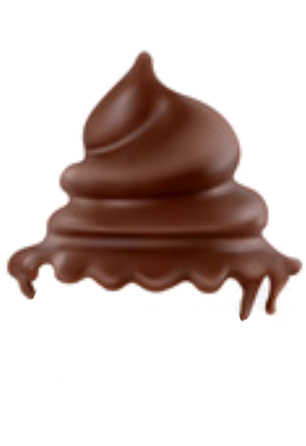
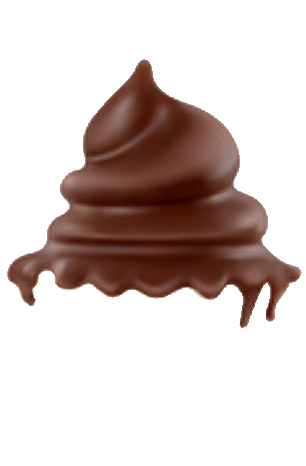
retoques, control background

diff --git a/index.html b/index.html
@@ -15,13 +15,13 @@
     <div class="contenedor_general">
         <div class="cupcake_contenedor">
             <div class="crema_topping"> 
-                <img src="" alt="" class="img-show">
+                <img src="./img/topping_inicio.png" alt="" class="img-show">
             </div>
             <div class="crema_cupcake"> 
-                <img src="" alt="" class="img-show">
+                <img src="./img/crema_inicio.png" alt="" class="img-show">
             </div>
             <div class="base_cupcake">
-                <img src="" alt="" class="img-show">
+                <img src="./img/base_cupcake_inicio.png" alt="" class="img-show">
             </div>
             <div class="reflejo"></div>
         </div>
@@ -44,7 +44,7 @@
                 <img src="./img/crema_nata.png" alt="creme rosa">
                 <img src="./img/cmema_avellanasYginda.png" alt=" crema_azul">
                 <img src="./img/crema_cumple.png" alt="crema con ginda">
-                <img src="./img/chocolate_duro.png" alt="chocolate duro">
+                <img src="./img/crema_picos.png" alt="chocolate duro">
                 <img src="./img/crema_rosa.png" alt="creme rosa">
             </div>
 
@@ -52,14 +52,12 @@
 
            
             <div class="control bases">
-                <img src="./img/base_cupcake.png" alt="base_cupcake">
                 <img src="./img/base_cupcake_rosa.png" alt="base_cupcake">
                 <img src="./img/base_cupcake_amarillo.png" alt="base_cupcake">
                 <img src="./img/base_cupcake_arcoiris.png" alt="base_cupcake">
                 <img src="./img/base_cupcake_bananasplit.png" alt="base_cupcake">
                 <img src="./img/base_cupcake_rojo.png" alt="base_cupcake">
-                <img src="./img/base_cupcake.png" alt="base_cupcake">
-                <img src="./img/base_cupcake.png" alt="base_cupcake">
+                <img src="./img/base_cupcake_violeta.png" alt="base_cupcake">
             </div>
         
         </div>

diff --git a/style.css b/style.css
@@ -16,7 +16,7 @@ body{
 
 .contenedor_general{
     /* background: yellowgreen; */
-    width: 400px;
+    width: 360px;
     position: absolute;
     top: 50%;
     left: 50%;
@@ -59,7 +59,7 @@ body{
 .base_cupcake{
     /* background: burlywood; */
     position: absolute;
-    top: 20px;
+    top: 23px;
     z-index: 0;
  /*    filter: drop-shadow( 0 0 10px   rgba(0, 0, 0, 0.2));
     background-image: url('./img/base_cupcake_amarillo.png');
@@ -75,14 +75,14 @@ body{
     width:150px;
     height: 3%;
     position: absolute;
-    top: 340px;
+    top: 320px;
     background: linear-gradient(to bottom, rgba(54, 54, 54, 0.3),rgb(114, 114, 114));
     z-index: 1;
     filter: blur(0.5rem);
     border-radius: 50%;
   }
 .controles{
-    /* background: violet; */
+    background: rgba(170, 155, 170, 0.1);
     width: 100%;
     height: 250px;
     position: absolute;
@@ -93,10 +93,10 @@ body{
 
 .control img{
     width: 15%;
-    margin-left: 15px;
+    margin-left: 55px;
 }
 .control{
-    width: 200vw;
+    width: 300vw;
     height: 150px;
     display: flex;
     align-items: center;
